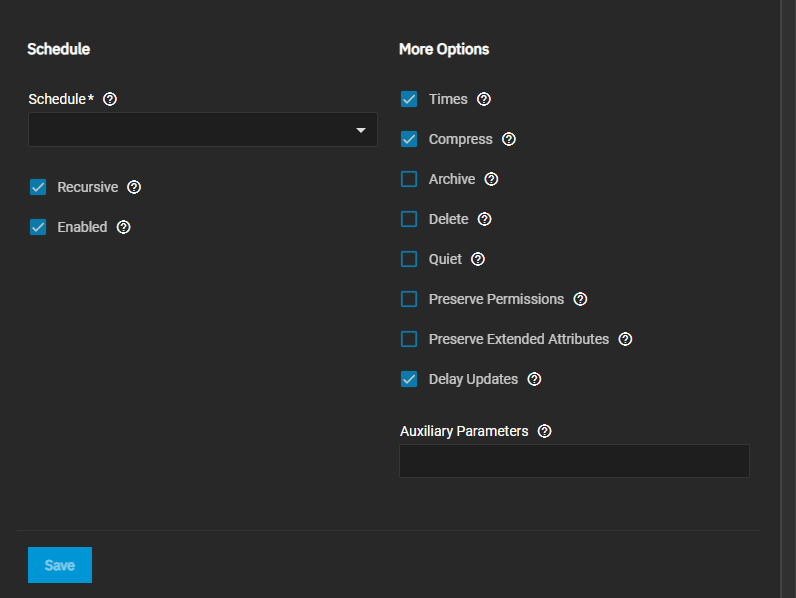
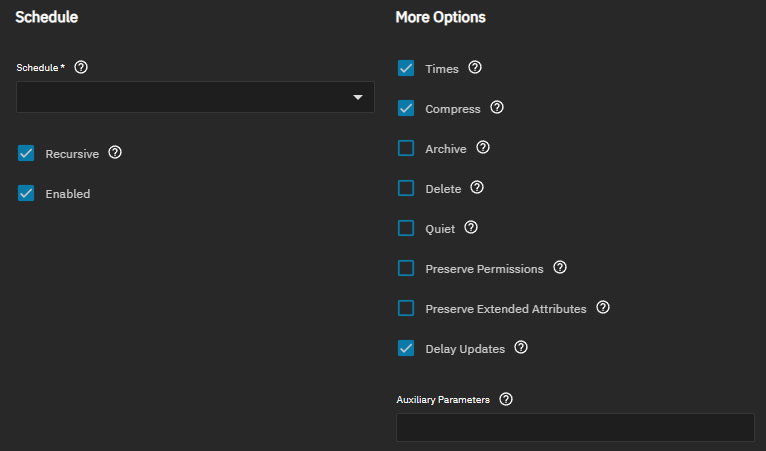
DOCS-2574 / 26 / Docs 2574 update rsync UI and tutorial content with changes to match replication (by DjP-iX) (#4641)
* Update RsyncTasks.md

(cherry picked from commit 2a5f1d13881897873f649bd113b8b17aae1df667)

* Update RsyncTasksScreens.md

(cherry picked from commit 0db99b06c4c4515701c13f09352b8eaa433576e0)

* Update AddRsyncTaskSchedOpt.png

(cherry picked from commit 9d8a8c3f54b76b48a978b9df21030258b4fc9ef5)

* Update AddRsyncTaskSourceAndRemoteSettings.png

(cherry picked from commit 511f329cb9355f6d098b23d76d534928e7a76e39)

* Update AddRsyncTaskSourceRemoteSSH.png

(cherry picked from commit ecb291ceb2221888cbfa75f4073eaa95ef2d979d)

* Update RsyncTasks.md

Changed widget to card

(cherry picked from commit 4485fb6c62722a82799ed49fb56a4a133d55627e)

* Update RsyncTasksScreens.md

Change widget to card

(cherry picked from commit 4c97b45902829e3bc231becc0cd59c433fe19cf0)

---------

Pull request: DOCS-2574 / 26 / Docs 2574 update rsync UI and tutorial content with changes to match replication (by DjP-iX)
- Relabeled the first form section Source → Local (heading, prose, image alt text, expand label) to match webui PR
#13190
- Updated Direction to "to or from the remote host" and rewrote Push/Pull in Local/Remote terms
- Documented the new SSH Keyscan field
- Made User permissions and the Delete option direction-aware (Push vs. Pull)
- Fixed 4 broken in-page anchor links in the tutorial
- Corrected step 5 contradiction and a public/private-key error; made the Module procedure parallel to the SSH one
- Fixed broken <br><li> table lists, a wrong "cloud sync" reference, and a CORE→SCALE scheduler include
- Typo and style cleanup throughout

Original PR: https://github.com/truenas/documentation/pull/4640
Jira URL: https://ixsystemsinc.atlassian.net/browse/DOCS-2574

diff --git a/content/DataProtection/Rsync/RsyncTasks.md b/content/DataProtection/Rsync/RsyncTasks.md
@@ -21,8 +21,8 @@ The **Pull** function copies data from a remote system to the TrueNAS local host
 
 There are two ways to connect to a remote system and run an rsync task:
 
-* Set up an [SSH connection](#configuring-ssh-mode-rsync-tasks) to the remote server.
-* Set up an [rsync module](#configuring-module-mode-rsync-tasks) for the remote server.
+* Set up an [SSH connection](#adding-an-rsync-task-using-ssh) to the remote server.
+* Set up an [rsync module](#setting-up-an-rsync-task-using-module-mode) for the remote server.
 
 ## Before You Configure the Rsync Mode
 
@@ -33,8 +33,8 @@ An rsync task has two basic methods:
 Module mode requires adding an rsync app to the remote system, configuring a module on that system, and then entering it in the rsync task in TrueNAS.
 
 SSH mode has two connection options:
-* **SSH private key stored in the user's home directory**
-* **SSH connection for the keychain**
+* **SSH private key stored in user's home directory**
+* **SSH connection from the keychain**
 
 Setting options change based on the SSH connection option selected.
 
@@ -60,36 +60,33 @@ TrueNAS allows configuring multiple admin users on the system. All admin users c
 
 ## Adding an Rsync Task Using SSH
 
-Enabled SSH on both the local host TrueNAS, and the remote destination system.
+Enable SSH on both the local host TrueNAS and the remote destination system.
 
-You can use the SSS connection created in [Setting Up an SSH Connection](#setting-up-an-ssh-connection) or create a new connection while configuring the rsync task.
+You can use the SSH connection created in [Using an SSH Connection](#using-an-ssh-connection) or create a new connection while configuring the rsync task.
 
-1. Go to **Data Protection** and click **Add** on the **Rsync Tasks** widget to open the **Add Rsync Task** screen.
+1. Go to **Data Protection** and click **Add** on the **Rsync Tasks** card to open the **Add Rsync Task** screen.
 
    {{< trueimage src="/images/SCALE/DataProtection/AddRsyncTaskSourceRemoteSSH.png" alt="Add Rsync Task - SSH Mode" id="Add Rsync Task - SSH Mode" >}}
 
 2. Enter or browse to the dataset or folder to sync with the remote server.
-   Use the <span class="material-icons">arrow_right</span> to the left of the **/mnt** folder and each folder listed on the tree to expand and browse through, then click on the name to populate the path field.
+   Use the <span class="material-icons">arrow_right</span> to the left of the **/mnt** folder and each folder listed on the tree to expand and browse through, then click on the name to populate the **Path** field.
 
     {{< include file="/static/includes/FileExplorerFolderIcons.md" >}}
 
 3. Select the administration user for the local host TrueNAS system from the **User** dropdown. This is the user account to perform the rsync task.
-   The user must have read/write permissions for the local dataset.
+   The user must have read and write permissions for the local dataset.
 
 4. Set the **Direction** for the rsync task.
    Select **Pull** to copy from the remote server to TrueNAS or **Push** to copy to the remote server.
 
-5. Set the **Rsync Mode** to **SSH**, and then select the connection method from the **Connect using** dropdown list.
-   Settings fields for the selected connection type show.
-   
-   Leave this set to **Module** if syncing with a non-TrueNAS remote system.
-   See [Addin an Rsync Task Using Module Mode](#adding-an-rsync-task-using-module-mode) for more information.
-  
-   If selecting **SSH private key stored in the user home directory**, the public key for the SSH connection must be alread be saved in the home directory for the admin user.
+5. Set the **Rsync Mode** to **SSH**, then select the connection method from the **Connect using** dropdown list.
+   The setting fields for the selected connection type show.
 
-   If selecting **SSH connection from the keychain**, choose either the existing SSH credential from the **SSH Connection** dropdown list or select **Add New** to open the **New SSH Connection** configuration screen. See [Using an SSH Connection](#using-an-ssh-connection) below for more information.
+   If selecting **SSH private key stored in user's home directory**, the user selected in **User** must already have an SSH private key saved in their home directory.
 
-   If the connection fails, the system lets you know what is wrong so you can correct the issue with the connection.
+   If selecting **SSH connection from the keychain**, choose an existing SSH connection from the **SSH Connection** dropdown list, or select **Add New** to open the **New SSH Connection** configuration screen. See [Using an SSH Connection](#using-an-ssh-connection) below for more information.
+
+   If the connection fails, the system displays a message describing the problem so you can correct it.
 
 6. Enter the full path to the dataset on the remote server in **Remote Path**. The maximum path length is 255 bytes.
 
@@ -108,19 +105,19 @@ You can use the SSS connection created in [Setting Up an SSH Connection](#settin
 
 8. Leave **Enabled** selected. Clear the checkbox to disable the task without deleting the configuration.
 
-9. Click **Save**. The system verifies the SSH connection and adds the task to the **Rsync Tasks** widget.
+9. Click **Save**. The system verifies the SSH connection and adds the task to the **Rsync Tasks** card.
 
-To run the rsync task at any time, select it on the **Rsync Tasks** widget, click on the vertical ellipses <span class="material-icons">more_vert</span> for the task, and select the **Run Now**.
+To run the rsync task at any time, select it on the **Rsync Tasks** card, click <span class="material-icons">more_vert</span> for the task, and select **Run Now**.
 
-#### Using an SSH Connection
+### Using an SSH Connection
 
 The TrueNAS UI allows users to select an existing SSH connection or to create a new connection while configuring the task.
 The **New SSH Connection** screen opened using the **Add New** option in the rsync task and accessed while on the **Backup Credentials** screen are essentially the same and show the same setting options.
 
-To set up a new SSH connection before adding an rsync task, go to **Credentials > Backup Credentials** and click **Add** on the **SSH Connections** widget.
+To set up a new SSH connection before adding an rsync task, go to **Credentials > Backup Credentials** and click **Add** on the **SSH Connections** card.
 See [Adding SSH Credentials]({{< ref "AddSSHConnectionKeyPair" >}}) for more information on adding SSH Connections and key pairs.
 
-To add a new connection while configuring the rsync task on the **Add Rsync Task** screen, set the mode to **SSH**, select **SSH connection for the keychain**, and then select **Add New** on the **SSH Connection** dropdown list. The **New SSH Connection** screen opens.
+To add a new connection while configuring the rsync task on the **Add Rsync Task** screen, set the mode to **SSH**, select **SSH connection from the keychain**, and then select **Add New** on the **SSH Connection** dropdown list. The **New SSH Connection** screen opens.
 
 {{< expand "Adding an SSH Connection to a TrueNAS System" "v" >}}
 
@@ -135,24 +132,24 @@ To add a new connection while configuring the rsync task on the **Add Rsync Task
 {{< /expand >}} 
 
 Next, set up a home directory for the system administrator on the remote system if one does not already exist.
-If the remote system is a TrueNAS, edit the user to add the public key. In TrueNAS, go to **Users**, click **Edit**, and paste the key into the pubic key field.
+If the remote system is a TrueNAS, edit the user to add the public key. Go to **Credentials > Users**, click **Edit**, and paste the key into the SSH public key field.
 
 After adding the SSH connection, go to **System > Services** to turn on the **SSH** service.
-We don't recommend leaving the SSH service turned on when not in use for security hardening.
-Turn it on before the rsync task is scheduled to run, then off again after the task completes to keep your system secured.
-(Optional) To automatically start or restart the SSH service after a system restart, select this option.
-Enable the SSH service on the remote system according to the configuration process for a non-TrueNAS system.
+For security hardening, do not leave the SSH service turned on when it is not in use.
+Turn it on before the rsync task is scheduled to run, then turn it off again after the task completes.
+(Optional) To start the SSH service automatically after each system restart, enable that option in the **SSH** service settings.
+Enable the SSH service on the remote system following the configuration process for that system.
 
 ## Setting Up an Rsync Task Using Module Mode 
 
-Before you create an rsync task in module mode, you must [define at least one module](#defining-an-rsync-module) per [rsyncd.conf(5)](https://www.samba.org/ftp/rsync/rsyncd.conf.html) on the remote rsync server.
+Before you create an rsync task in module mode, you must [define at least one module](#setting-up-an-rsync-module) per [rsyncd.conf(5)](https://www.samba.org/ftp/rsync/rsyncd.conf.html) on the remote rsync server.
 The [Rsync Daemon](https://apps.truenas.com/catalog/rsyncd_community/) application is available in situations where configuring TrueNAS as an rsync server with an rsync module is necessary.
 
 After configuring the remote server with rsync and a module, configure the rsync task in TrueNAS.
 
 ### Setting Up an Rsync Module
 
-If the non-TruNAS remote server includes an rsync service, make sure it is turned on. To configure a module on the remote server:
+If the non-TrueNAS remote server includes an rsync service, make sure it is turned on. To configure a module on the remote server:
 
 1. Create a dataset.
    Write down the host and path to the data on the remote system you plan to sync with.
@@ -172,7 +169,7 @@ If the non-TruNAS remote server includes an rsync service, make sure it is turne
 
    When the remote system is a Debian-based TrueNAS system, go to **Apps > Discover Apps** and search for the **Rsync Daemon** app.
    
-   Click on the widget, and then click **Install** to open the installation wizard.
+   Click on the card, and then click **Install** to open the installation wizard.
 
    To add a module, click **Add** to the right of **Rsync Modules**, then:
    1. Assign a name. This name is added in the **Add Rsync Task** screen on your TrueNAS system when you set up a task using **Module** in the **Rsync Mode** field.
@@ -181,7 +178,7 @@ If the non-TruNAS remote server includes an rsync service, make sure it is turne
       You can use **Create Dataset** to add a new dataset, and repeat to add a new child dataset if not selecting an existing dataset.
    4. Set the level of access by selecting the option on the **Access Mode** dropdown list.
    5. (Optional) Add IP addresses to the **Host Allow** or **Host Deny** options if you want to narrow access to this module.
-   6. Take note of the name of the module and the host path to it or use in later when you add the rsync task in your TrueNAS system.
+   6. Take note of the name of the module and its host path to use later when you add the rsync task in your TrueNAS system.
 
    Complete the rest of the app configuration to suit your use case, and click **Install**. 
    The app shows in the TrueNAS UI on the **Applications** screen as **Running** when fully deployed.
@@ -194,27 +191,27 @@ To configure the rsync task using module mode, you need:
 * The IP address or host name for the remote server
 * The path to the dataset
 
-Go to **Data Protection** and click **Add** on the **Rsync Tasks** widget to open the **Add Rsync Task** screen.
+1. Go to **Data Protection** and click **Add** on the **Rsync Tasks** card to open the **Add Rsync Task** screen.
 
    {{< trueimage src="/images/SCALE/DataProtection/AddRsyncTaskSourceAndRemoteSettings.png" alt="Add Rsync Task - Module Mode" id="Add Rsync Task - Module Mode" >}}
 
-1. Enter or browse to and select the dataset or folder to sync with the remote server.
-   Clicking on the dataset name populates the path field.
+2. Enter or browse to and select the dataset or folder to sync with the remote server.
+   Clicking on the dataset name populates the **Path** field.
 
    {{< include file="/static/includes/FileExplorerFolderIcons.md" >}}
 
-2. Select the admin account to perform the rsync task on the **User** dropdown list.
-   The user must have permissions to run an rsync on the remote server and read/write permission for the local dataset.
+3. Select the admin account to perform the rsync task on the **User** dropdown list.
+   The user must have permissions to run an rsync on the remote server and read and write permission for the local dataset.
 
-3. Set the **Direction** for the rsync task.
+4. Set the **Direction** for the rsync task.
    Select **Pull** to copy from the remote server to TrueNAS or **Push** to copy to the remote server.
 
-4. Set the **Rsync Mode** to **Module**.
+5. Set the **Rsync Mode** to **Module**.
    The module settings fields show.
 
-5. Enter the remote host name or IP in **Remote Host**.
+6. Enter the remote host name or IP in **Remote Host**.
 
-6. Set the schedule for when to run this task, and any other options you want to use.
+7. Set the schedule for when to run this task and any other options you want to use.
 
    {{< trueimage src="/images/SCALE/DataProtection/AddRsyncTaskSchedOpt.png" alt="Add Rsync Task Schedule and More Options" id="Add Rsync Task Schedule and More Options" >}}
 
@@ -223,9 +220,9 @@ Go to **Data Protection** and click **Add** on the **Rsync Tasks** widget to ope
    {{< include file="/static/includes/SCALEAdvancedScheduler.md" >}}
    {{< /expand >}}
 
-7. Leave the **Enabled** selected to enable the task.
+8. Leave **Enabled** selected to enable the task.
    Clear the checkbox to disable the task without deleting the configuration.
 
-8. Click **Save**.
+9. Click **Save**.
 
-You can run the rsync task by clicking <i class="fa fa-chevron-right"></i> then the **Run Now** <i class="material-icons" aria-hidden="true" title="play_arrow">play_arrow</i> icon for the rsync task on the **Rsync Task** widget.
+To run the rsync task at any time, select it on the **Rsync Tasks** card, click <span class="material-icons">more_vert</span> for the task, and select **Run Now**.

diff --git a/content/DataProtection/Rsync/RsyncTasksScreens.md b/content/DataProtection/Rsync/RsyncTasksScreens.md
@@ -9,30 +9,30 @@ doctype: reference
 ---
 
 
-The **Rsync Task** widget on the **Data Protection** screen shows rsync tasks configured on the TrueNAS system.
+The **Rsync Task** card on the **Data Protection** screen shows rsync tasks configured on the TrueNAS system.
 It provides access to configuration screens to add single-time or scheduled recurring transfers between TrueNAS and an rsync backup server.
 Rsync tasks are an effective method to back up data to a remote location.
 
-## Rsync Task Widget
+## Rsync Task Card
 
-The **Rsync Tasks** widget shows a description about rsync tasks until the first task is configured, then it shows a list of tasks configured on the system, with th details about the task, and the task status.
+The **Rsync Tasks** card shows a description of rsync tasks until the first task is configured. After that, it shows a list of the tasks configured on the system, with details about each task and the task status.
 
 <div style="display: flex; gap: 20px; align-items: flex-start;">
     <div style="flex: 1;">
-      <img src="/images/SCALE/DataProtection/RsyncTaskWidgetNoTasks.png" alt="Rsync Task Widget No Task" style="width: 100%; max-width: 400px; height: auto;">
+      <img src="/images/SCALE/DataProtection/RsyncTaskWidgetNoTasks.png" alt="Rsync Task Card No Task" style="width: 100%; max-width: 400px; height: auto;">
     </div>
     <div style="flex: 1;">
-      <img src="/images/SCALE/DataProtection/RsyncTaskWidget.png" alt="Rsync Task Widget with Tasks" style="width: 100%; max-width: 400px; height: auto;">
+      <img src="/images/SCALE/DataProtection/RsyncTaskWidget.png" alt="Rsync Task Card with Tasks" style="width: 100%; max-width: 400px; height: auto;">
     </div>
   </div>
   
-The widget header opens the [**Rsync Task**](#rsync-task-screen) screen.
+The card header opens the [**Rsync Task**](#rsync-task-screen) screen.
 
 **Add** opens the **[Add Rsync Task](#add-and-edit-rsync-task-screens)** screen.
 
 {{< include file="/static/includes/RsyncMoreVertOptions.md" >}}
 
-**State** displays the status of the next cloud sync task as **SUCCESS** for completed tasks, **FAILED** if the task fails to complete the sync, and **PENDING** for tasks that have not run yet.
+**State** displays the status of the rsync task as **SUCCESS** for completed tasks, **FAILED** if the task fails to complete the sync, and **PENDING** for tasks that have not run yet.
 Click on the state oval to open the **Logs** dialog for that task. **Download Logs** saves a copy of the current task logs.
 
 {{< trueimage src="/images/SCALE/DataProtection/RsyncTaskLogDialog.png" alt="Rsync Task Log Dialog" id="Rsync Task Log Dialog" >}}
@@ -57,32 +57,33 @@ Table column headings sort the list in ascending or descending order.
 The **Add Rsync Task** and **Edit Rsync Task** screens show the same settings.
 The sections below group settings by functional area.
 
-### Source and Remote Options
+### Local and Remote Options
 
-**Source** settings specify the location of the stored data to sync with a remote server, set the user that performs the task, and the direction of the task (send or receive data).
-The **Remote** settings specify the mode for the task and remote host connection information.
+**Local** settings specify the location of the data on the TrueNAS system to sync, the user that performs the task, and the direction of the transfer (send or receive data).
+The **Remote** settings specify the mode for the task and the remote host connection information.
 Settings change based on the option (**Module** or **SSH**) set in **Rsync Mode**.
 
-{{< trueimage src="/images/SCALE/DataProtection/AddRsyncTaskSourceAndRemoteSettings.png" alt="Rsync Task Source and Remote Module Settings" id="Rsync Task Source and Remote Module Settings" >}}
+{{< trueimage src="/images/SCALE/DataProtection/AddRsyncTaskSourceAndRemoteSettings.png" alt="Rsync Task Local and Remote Module Settings" id="Rsync Task Local and Remote Module Settings" >}}
 
-{{< trueimage src="/images/SCALE/DataProtection/AddRsyncTaskSourceRemoteSSH.png" alt="Rsync Task Source and Remote SSH Settings" id="Rsync Task Source and Remote SSH Settings" >}}
+{{< trueimage src="/images/SCALE/DataProtection/AddRsyncTaskSourceRemoteSSH.png" alt="Rsync Task Local and Remote SSH Settings" id="Rsync Task Local and Remote SSH Settings" >}}
 
 {{< include file="/static/includes/FileExplorerFolderIcons.md" >}}
 
-{{< expand "Source and Remote Settings" "v" >}}
+{{< expand "Local and Remote Settings" "v" >}}
 {{< truetable >}}
 | Setting | Description |
 |---------|-------------|
-| **Path** | (Required) Enter or browse to the dataset or directory to sync with a remote server. Use the <span class="material-icons">arrow_right</span> to the left of **/mnt** folder to expand the folder tree, then click on the name to select and populate the **Path** field. Linux file path limits apply. Other operating systems can have different limits, which might affect how to use them as sources or destinations. |
-| **User** | (Required) Select the user to run the rsync task. Select a user who has permissions to write to the specified directory on the remote host. If setting **Rsync Mode** to **SSH**, the user must have an SSH private key in their home directory if **Connect using** is set to **SSH private key stored in user's home directory**. |
-| **Direction** | (Required) Select the direction of the flow of data to the remote host. Options are:<br><li>**Push** - During a push, the dataset copies data to the remote module.<br><li>**Pull** - During a pull, the dataset stores data copied from the remote system.</li> |
+| **Path** | (Required) Enter or browse to the dataset or directory on the TrueNAS system to sync. Use the <span class="material-icons">arrow_right</span> to the left of the **/mnt** folder to expand the folder tree, then click on the name to select and populate the **Path** field. Linux file path limits apply. Other operating systems can have different limits, which might affect how to use them as sources or destinations. |
+| **User** | (Required) Select the user to run the rsync task. The user must have permission to write to the destination directory: the directory on the remote host for a **Push**, or the local dataset for a **Pull**. If setting **Rsync Mode** to **SSH**, the user must have an SSH private key in their home directory when **Connect using** is set to **SSH private key stored in user's home directory**. |
+| **Direction** | (Required) Select the direction of the flow of data to or from the remote host. Options are:<ul><li>**Push** - Copies data from the local TrueNAS system to the remote system.</li><li>**Pull** - Copies data from the remote system to the local TrueNAS system.</li></ul> |
 | **Description** | (Optional) Enter a description of the rsync task. |
-| **Rsync Mode** | Select the mode from the dropdown list. Options are:<br><li>**Module** - Uses a custom-defined remote module from the rsync server.<br><li>**SSH** - Uses an SSH configuration for the rsync task. The remote system must have SSH enabled. The host system needs an established SSH connection to the remote for the rsync task. **SSH** displays more settings.</li> |
+| **Rsync Mode** | Select the mode from the dropdown list. Options are:<ul><li>**Module** - Uses a custom-defined remote module from the rsync server.</li><li>**SSH** - Uses an SSH configuration for the rsync task. The remote system must have SSH enabled. The local system needs an established SSH connection to the remote system for the rsync task. **SSH** displays more settings.</li></ul> |
 | **Remote Host** | (Required) Enter the IP address or host name and domain of the remote system. Use the format `username@remote_host` if the user name differs on the remote host. |
 | **Remote Module Name** | (Required) If **Rsync Mode** is set to **Module**, specify the name of the module on the remote rsync server. Define at least one module per [rsyncd.conf(5)](https://www.samba.org/ftp/rsync/rsyncd.conf.html) on the remote rsync server. Enter the **Module Name** exactly as it appears on the remote system. |
-| **Connect using** | (Required) When **Rsync Mode** is set to **SSH**, shows two options: <br><li>**SSH private key stored in user's home directory** - The user entered in **User** must have an SSH private key added and stored in the home directory for the user. Create the SSH connection and keypair, download the keys, then add the private key to the user in the UI and to the home directory either from the **Shell** using Linux CLI commands or while in an SSH session with the system. <br><li>**SSH connection from the keychain** - Requires creating an [SSH connection and keypair]({{< ref "AddSSHConnectionKeyPair" >}}) before setting up the rsync task. Shows the **SSH Connection** dropdown list showing SSH connections configured in the system.</li> |
-| **SSH Connection** | Shows when **Rsync Mode** is set to **SSH**, and **Connect Using** is set to **SSH connecton from the keychain**. Shows a dropdown list of SSH connections added in TrueNAS. Sets the rsync task to use the selected SSH connection to authenticate sync operations with the remote server. |
-| **Remote SSH Port** |  (Required) If **Rsync Mode** is set to **SSH**, enter the SSH port number of the remote system. By default, **22** is reserved in TrueNAS. |
+| **Connect using** | (Required) When **Rsync Mode** is set to **SSH**, shows two options:<ul><li>**SSH private key stored in user's home directory** - The user entered in **User** must have an SSH private key added and stored in the home directory for the user. Create the SSH connection and key pair, download the keys, then add the private key to the user in the UI and to the home directory either from the **Shell** using Linux CLI commands or while in an SSH session with the system.</li><li>**SSH connection from the keychain** - Requires creating an [SSH connection and key pair]({{< ref "AddSSHConnectionKeyPair" >}}) before setting up the rsync task. Shows the **SSH Connection** dropdown list of SSH connections configured in the system.</li></ul> |
+| **SSH Keyscan** | Shows when **Rsync Mode** is set to **SSH**, **Connect using** is set to **SSH private key stored in user's home directory**, and a **Remote Host** is entered. Select to retrieve the remote host SSH key and store it on the local system. This lets the local system verify the remote host identity when it connects. |
+| **SSH Connection** | Shows when **Rsync Mode** is set to **SSH** and **Connect using** is set to **SSH connection from the keychain**. Shows a dropdown list of SSH connections added in TrueNAS. Sets the rsync task to use the selected SSH connection to authenticate sync operations with the remote server. |
+| **Remote SSH Port** | (Required) If **Rsync Mode** is set to **SSH**, enter the SSH port number of the remote system. By default, **22** is reserved in TrueNAS. |
 | **Remote Path** | Enter an existing path on the remote host. Maximum path length is 255 bytes. |
 | **Validate Remote Path** | Shows when **Rsync Mode** is set to **SSH**. Set to test the remote server connection and verify that the defined **Remote Path** exists. |
 {{< /truetable >}}
@@ -110,7 +111,7 @@ The **More Options** specify other settings related to when and how the rsync oc
 {{< include file="/static/includes/SchedulePresetOptions.md" >}}
 
 {{< expand "Advanced Scheduler" "v" >}}
-{{< include file="/static/includes/AdvancedScheduler.md" >}}
+{{< include file="/static/includes/SCALEAdvancedScheduler.md" >}}
 {{< /expand >}}
 
 {{< expand "More Options Settings" "v" >}}
@@ -123,11 +124,11 @@ The **More Options** specify other settings related to when and how the rsync oc
 | **Times** | Select to preserve modification times of files. |
 | **Compress** | Select to reduce the size of data to transmit. Recommended for slow connections. |
 | **Archive** |  Select to preserve symlinks, permissions, modification times, group, and special files. When selected, rsync runs recursively. When run as root, owner, device files, and special files are also preserved. Equal to passing the flags `-rlptgoD` to rsync. |
-| **Delete** | Select to delete files in the destination directory that do not exist in the source directory. |
+| **Delete** | Select to delete files in the destination directory that do not exist in the source directory. The destination is the remote system for a **Push** and the local system for a **Pull**. |
 | **Quiet** | Select to suppress informational messages from the remote server. |
 | **Preserve Permissions** | Select to preserve original file permissions. Useful when the user is set to root. |
 | **Preserve Extended Attributes** | Select to preserve [extended attributes](https://en.wikipedia.org/wiki/Extended_file_attributes), but this must be supported by both systems. |
-| **Delay Updates** | Select to save a temporary file from each updated file to a holding directory until the end of the transfer. All transferred files are renamed once the transfer is complete. |
-| **Auxiliary Parameters** | Enter additional [rsync(1)](https://rsync.samba.org/ftp/rsync/rsync.html) options to include. Separate entries by pressing <kbd>Enter</kbd>. Note: You must escape the `*` character with a backslash (`\*.txt`) or inside single quotes (`'*.txt'`). |
+| **Delay Updates** | Select to save a temporary file from each updated file to a holding directory until the end of the transfer. All transferred files are renamed after the transfer is complete. |
+| **Auxiliary Parameters** | Enter additional [rsync(1)](https://rsync.samba.org/ftp/rsync/rsync.html) options to include. Separate entries by pressing <kbd>Enter</kbd>. Note: Escape the `*` character with a backslash (`\*.txt`) or place it inside single quotes (`'*.txt'`). |
 {{< /truetable >}}
 {{< /expand >}}